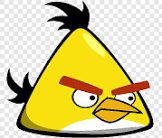
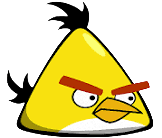
fastbird 만듦

diff --git a/week1team8/main.cpp b/week1team8/main.cpp
@@ -232,6 +232,11 @@ int WINAPI WinMain(HINSTANCE hInstance, HINSTANCE hPrevInstance, LPSTR lpCmdLine
 				bool bFound = false;
 				if (gameManager.GetGameState() == GameState::Play)
 				{
+					if (gameManager.GetReloadedBird()->State == EBirdState::Shooting)
+					{
+						gameManager.GetReloadedBird()->Ability();
+					}
+
 					for (ACollider* Collider : CM.colliders)
 					{
 						if (!Collider->bEditing) continue;

diff --git a/week1team8/GameManager.cpp b/week1team8/GameManager.cpp
@@ -131,7 +131,7 @@ ABird *GameManager::SpawnWaitingBird(FVector Location, EBirdType BirdType)
 	else if (BirdType == EBirdType::FastBird)
 	{
 		Bird = SpawnColider<AFastBird>(Location, EPrimitive::Circle, false, { 0.1, 0.1, 0 }, 50, -1);
-		Bird->SetImage(L"Assets/img/bird.png");
+		Bird->SetImage(L"Assets/img/Fastbird.png");
 		Birds.push_back(Bird);
 	}
 

diff --git a/week1team8/GameManager.h b/week1team8/GameManager.h
@@ -79,7 +79,7 @@ private:
 	GameManager() = default;
 	~GameManager() = default;
 
-	ABird * SpawnWaitingBird(FVector Location, EBirdType BirdType);
+	ABird* SpawnWaitingBird(FVector Location, EBirdType BirdType);
 
 	ABird* ReloadedBird = nullptr;
 	ASlingShot* SlingShot = nullptr;
